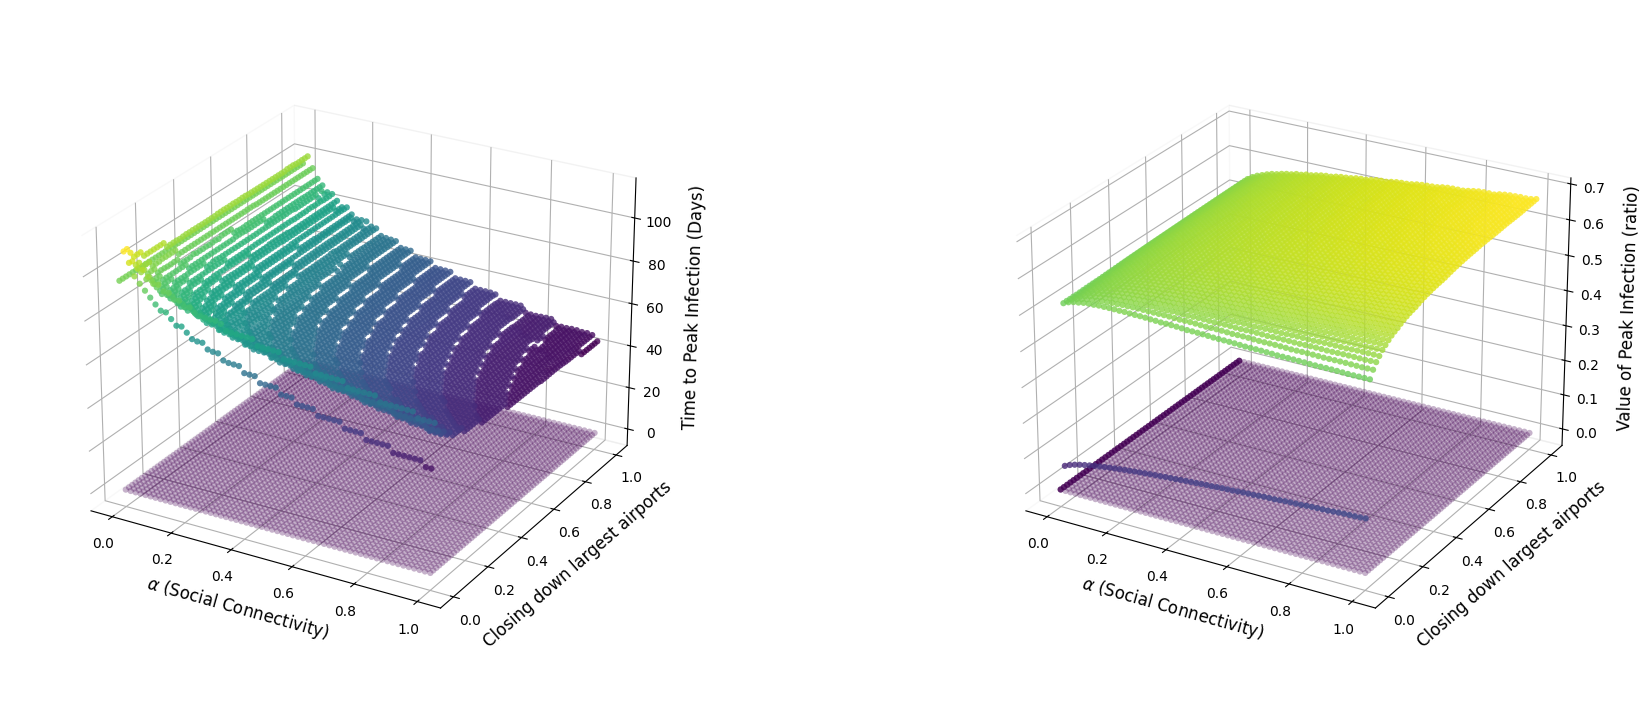
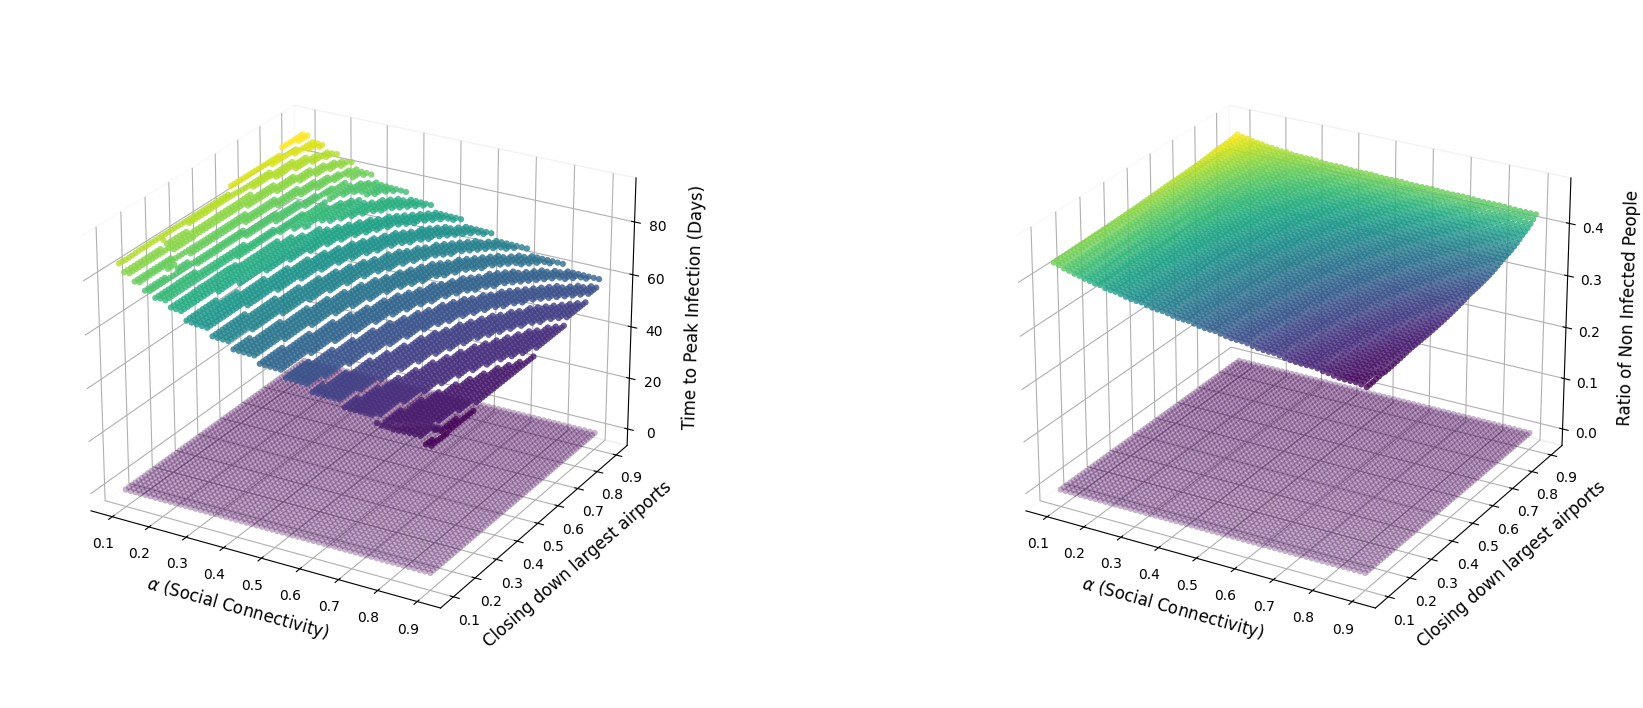
further optimalization of plotting

diff --git a/plotter.py b/plotter.py
@@ -350,7 +350,7 @@ def quarantine_plotter_2d(population, init_state, C, infection_rate, recovery_ra
 
     # 3. Format each individual subplot
     axs[0].set_title('Susceptible Fraction', fontsize=14)
-    axs[1].set_title('Infected Fraction (The Curve)', fontsize=14)
+    axs[1].set_title('Infected Fraction', fontsize=14)
     axs[2].set_title('Recovered Fraction', fontsize=14)
 
     for ax in axs:
@@ -381,13 +381,16 @@ def local_vs_global_quarantine(population, init_state, C, infection_rate, recove
     # 1. Run the Simulations
     for alpha in social_connectivity_range:
         for q in quarantine_range:
+
+            closing = (1-q)
+
             current_C = C.copy() 
             num_to_quarantine = top_nodes_under_quarantine
             
             if num_to_quarantine > 0:
                 quarantined_indices = top_nodes_idx[:num_to_quarantine]
-                current_C[quarantined_indices, :] = current_C[quarantined_indices, :] * q
-                current_C[:, quarantined_indices] = current_C[:, quarantined_indices] * q
+                current_C[quarantined_indices, :] = current_C[quarantined_indices, :] * closing
+                current_C[:, quarantined_indices] = current_C[:, quarantined_indices] * closing
             
             sim = Simulation(
                 populations=population,
@@ -412,7 +415,7 @@ def local_vs_global_quarantine(population, init_state, C, infection_rate, recove
     X_alpha = np.array(X_alpha)
     Y_outside = np.array(Y_outside)
     Z_time = np.array(Z_time)
-    Z_value = np.array(Z_value)
+    Z_value = 1 - np.array(Z_value)
 
     # ==========================================
     # Helper Function to Keep Code DRY (Don't Repeat Yourself)
@@ -451,7 +454,7 @@ def local_vs_global_quarantine(population, init_state, C, infection_rate, recove
     elif display == "value":
         fig = plt.figure(figsize=(10, 8))
         ax = fig.add_subplot(111, projection='3d')
-        draw_3d_scatter(ax, Z_value, 'Value of Peak Infection (ratio)')
+        draw_3d_scatter(ax, Z_value, 'Ratio of Non Infected People')
         plt.tight_layout(pad=3.0)
         plt.show()
         
@@ -462,7 +465,7 @@ def local_vs_global_quarantine(population, init_state, C, infection_rate, recove
         draw_3d_scatter(ax1, Z_time, 'Time to Peak Infection (Days)')
         
         ax2 = fig.add_subplot(1, 2, 2, projection='3d')
-        draw_3d_scatter(ax2, Z_value, 'Value of Peak Infection (ratio)')
+        draw_3d_scatter(ax2, Z_value, 'Ratio of Non Infected People')
 
         # THE FIX: Explicit padding values prevent the 1x2 layout from cropping the Z labels
         plt.tight_layout(pad=4.0, w_pad=5.0)